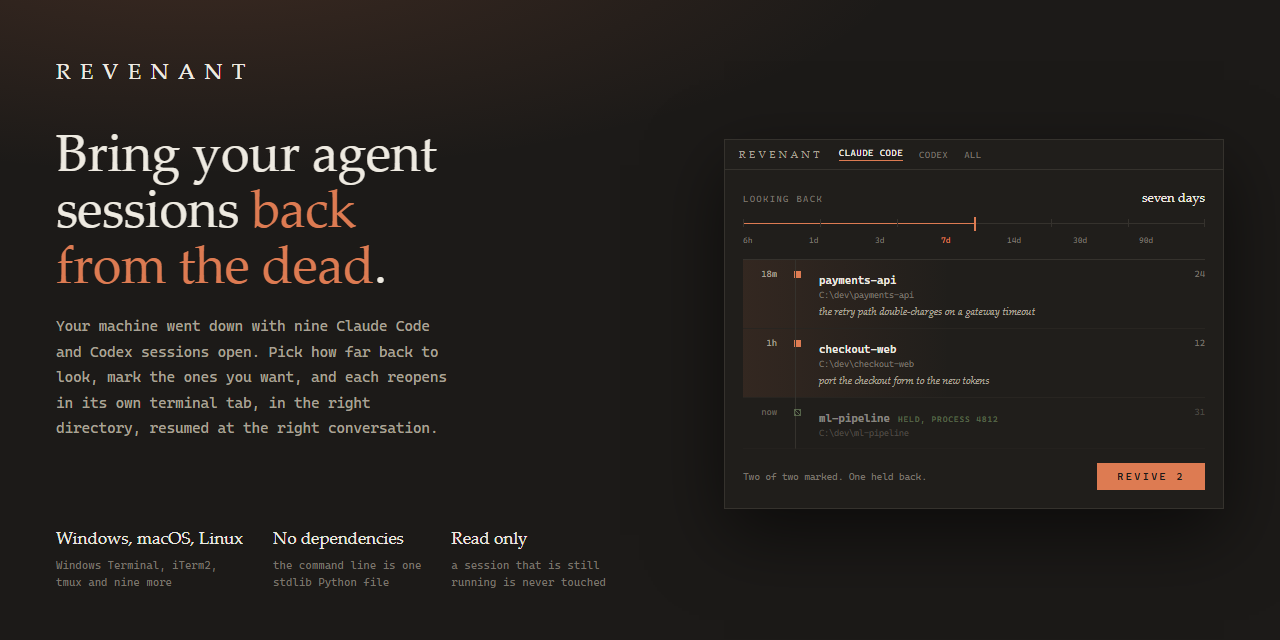
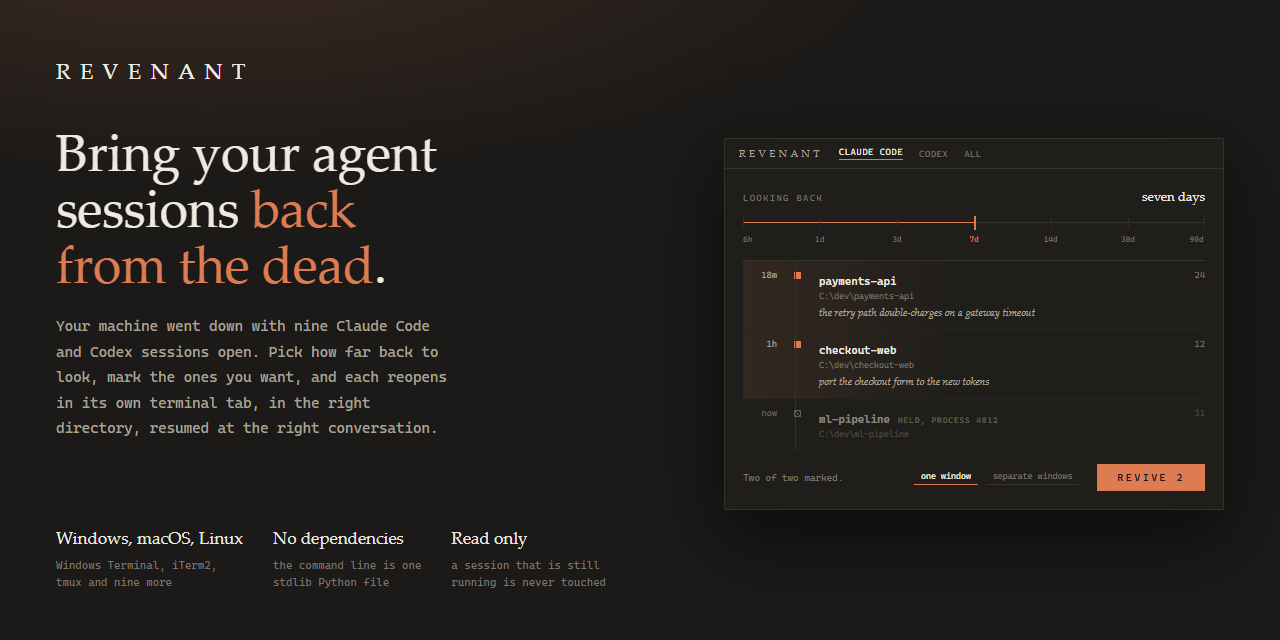
fix(assets): the social card was advertising an older build
Its scale labels sat in seven equal columns while its ticks sat at
sixths, which is the misalignment the real ruler carried until this
release. Its action bar predates the layout switch, so the picture
showed no way to choose where sessions land.

diff --git a/assets/src/social-card.html b/assets/src/social-card.html
@@ -46,8 +46,10 @@
   .track .f{position:absolute;left:0;width:50%;top:7px;height:1px;background:var(--ember)}
   .track .c{position:absolute;left:50%;top:1px;width:2px;height:14px;background:var(--ember)}
   .track .k{position:absolute;top:3px;width:1px;height:8px;background:var(--rule)}
-  .scale{display:grid;grid-template-columns:repeat(7,minmax(0,1fr));font-size:8px;color:var(--ink-3);
-         margin-bottom:14px}
+  /* Each label hangs off the same fraction as its tick, and the end two hang
+     inside the track rather than off its edges. */
+  .scale{position:relative;height:11px;font-size:8px;color:var(--ink-3);margin-bottom:14px}
+  .scale span{position:absolute;top:0;white-space:nowrap}
 
   .reg{position:relative;border-top:1px solid var(--rule)}
   .reg .axis{position:absolute;left:52px;top:0;bottom:0;width:1px;background:var(--rule)}
@@ -69,9 +71,15 @@
   .r .flag{font-size:7.5px;letter-spacing:.16em;color:var(--held);margin-left:8px}
   .r .t{text-align:right;font-size:9px;color:var(--ink-3)}
 
-  .cta{display:flex;align-items:center;justify-content:space-between;margin-top:14px}
-  .cta small{font-size:9.5px;color:var(--ink-3)}
+  .cta{display:flex;align-items:center;margin-top:14px}
+  .cta small{flex:1;font-size:9.5px;color:var(--ink-3);white-space:nowrap}
+  .mode{display:flex;align-items:baseline;gap:8px;margin-right:18px}
+  .mode i{font-style:normal;font-size:7.5px;letter-spacing:.16em;color:var(--ink-3)}
+  .mode b{font-weight:400;font-size:8.5px;color:var(--ink-3);padding:1px 7px 3px;white-space:nowrap;
+          border-bottom:1px solid var(--rule)}
+  .mode b.on{color:var(--ink);border-bottom-color:var(--ember)}
   .btn{background:var(--ember);color:#1c1a18;padding:8px 20px;font-size:10px;letter-spacing:.26em;
+       white-space:nowrap;
        font-weight:500}
 </style>
 </head>
@@ -105,8 +113,15 @@
         <span class="k" style="left:99.7%"></span>
         <span class="c"></span>
       </div>
-      <div class="scale"><span>6h</span><span>1d</span><span>3d</span>
-        <span style="color:#dd7b52">7d</span><span>14d</span><span>30d</span><span>90d</span></div>
+      <div class="scale">
+        <span style="left:0">6h</span>
+        <span style="left:16.6%;transform:translateX(-50%)">1d</span>
+        <span style="left:33.3%;transform:translateX(-50%)">3d</span>
+        <span style="left:50%;transform:translateX(-50%);color:#dd7b52">7d</span>
+        <span style="left:66.6%;transform:translateX(-50%)">14d</span>
+        <span style="left:83.3%;transform:translateX(-50%)">30d</span>
+        <span style="left:99.7%;transform:translateX(-100%)">90d</span>
+      </div>
 
       <div class="reg">
         <span class="axis"></span>
@@ -132,7 +147,11 @@
         </div>
       </div>
 
-      <div class="cta"><small>Two of two marked. One held back.</small><span class="btn">REVIVE 2</span></div>
+      <div class="cta">
+        <small>Two of two marked.</small>
+        <span class="mode"><b class="on">one window</b><b>separate windows</b></span>
+        <span class="btn">REVIVE 2</span>
+      </div>
     </div>
   </div>
 </div>
